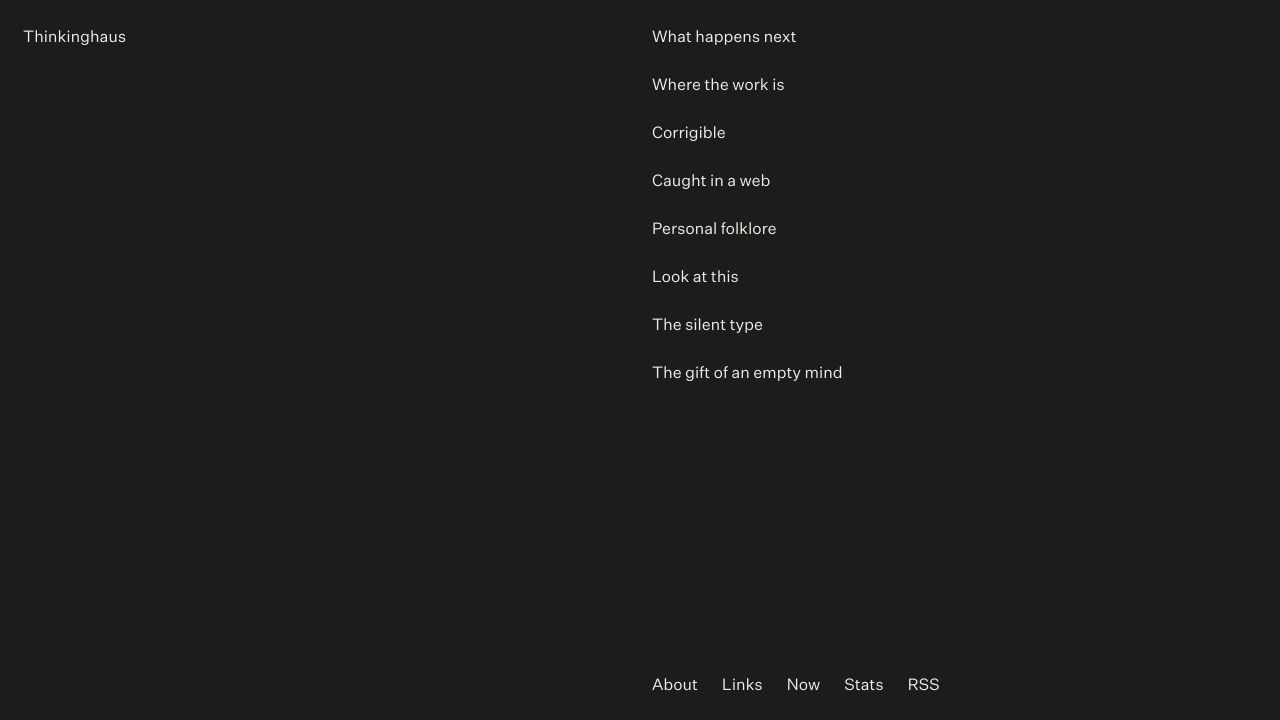
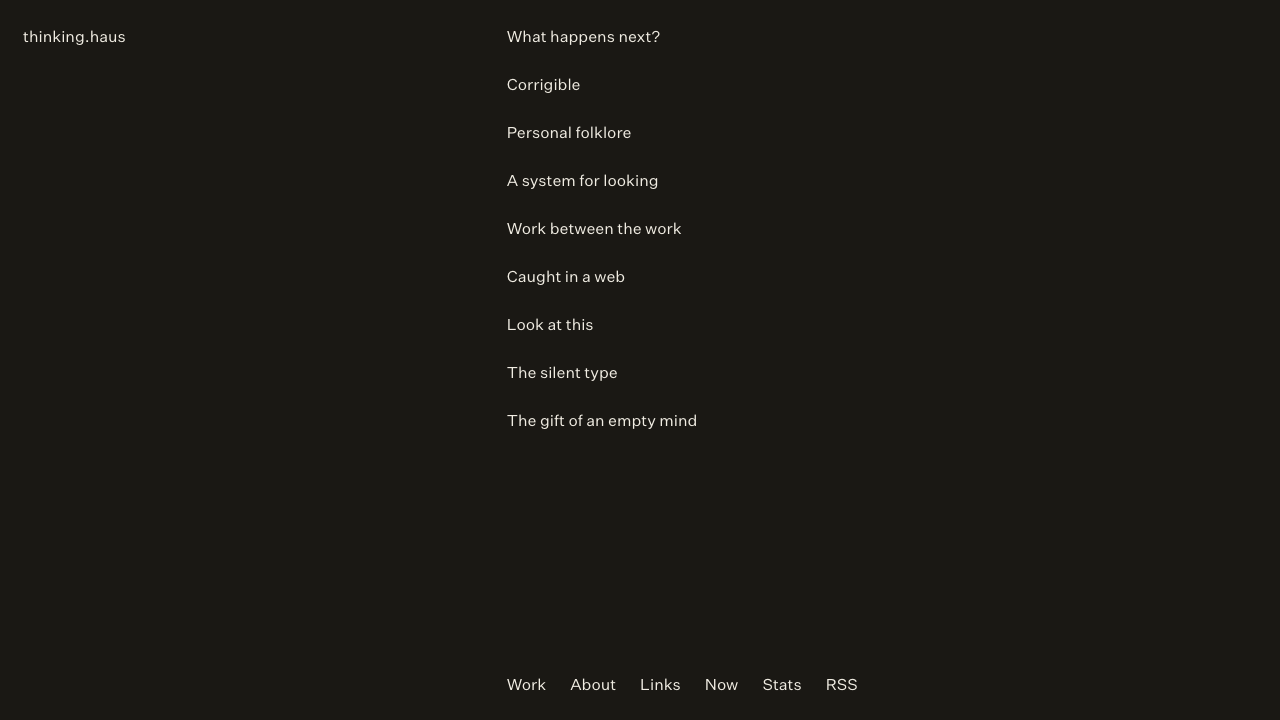
Rename site to thinking.haus

diff --git a/app/layout.tsx b/app/layout.tsx
@@ -24,7 +24,7 @@ const structuredData = {
       "@type": "WebSite",
       "@id": "https://thinking.haus/#website",
       url: "https://thinking.haus/",
-      name: "Thinkinghaus",
+      name: "thinking.haus",
       description: "Notes on attention, work, and the occasional strange thing.",
       author: { "@id": "https://thinking.haus/#author" },
     },
@@ -32,9 +32,10 @@ const structuredData = {
 };
 
 export const metadata: Metadata = {
+  applicationName: "thinking.haus",
   title: {
-    default: "Thinkinghaus",
-    template: "Thinkinghaus - %s",
+    default: "thinking.haus",
+    template: "thinking.haus - %s",
   },
   description: "Notes on attention, work, and the occasional strange thing.",
   metadataBase: new URL("https://thinking.haus"),
@@ -51,13 +52,14 @@ export const metadata: Metadata = {
     },
   },
   openGraph: {
-    title: "Thinkinghaus",
+    siteName: "thinking.haus",
+    title: "thinking.haus",
     description: "Notes on attention, work, and the occasional strange thing.",
     images: ["/og.png"],
   },
   twitter: {
     card: "summary_large_image",
-    title: "Thinkinghaus",
+    title: "thinking.haus",
     description: "Notes on attention, work, and the occasional strange thing.",
     images: ["/og.png"],
   },

diff --git a/app/[slug]/page.tsx b/app/[slug]/page.tsx
@@ -40,7 +40,7 @@ export default async function PostPage({ params }: PageProps) {
     return (
       <main className="site article-page">
         <div className="article-frame">
-          <a className="desktop-brand" href="/"><LetterCascade text="Thinkinghaus" /></a>
+          <a className="desktop-brand" href="/"><LetterCascade text="thinking.haus" /></a>
           <article className="article-column">
             <h1>Nothing here yet.</h1>
             <p><a href="/">Back to the notes.</a></p>
@@ -53,7 +53,7 @@ export default async function PostPage({ params }: PageProps) {
   return (
     <main className="site article-page">
       <div className="article-frame">
-        <a className="desktop-brand" href="/"><LetterCascade text="Thinkinghaus" /></a>
+        <a className="desktop-brand" href="/"><LetterCascade text="thinking.haus" /></a>
         <article className="article-column" data-content-slug={slug} data-content-title={content.title}>
           <header className="article-header">
             <h1>{content.title}</h1>

diff --git a/app/page.tsx b/app/page.tsx
@@ -17,9 +17,9 @@ export default function Home() {
   return (
     <main className="site index-page">
       <div className="index-frame">
-        <a className="desktop-brand" href="/"><LetterCascade text="Thinkinghaus" /></a>
+        <a className="desktop-brand" href="/"><LetterCascade text="thinking.haus" /></a>
         <div className="index-column">
-          <h1 className="sr-only">Thinkinghaus</h1>
+          <h1 className="sr-only">thinking.haus</h1>
           <ol className="post-list">
             {posts.map((post) => (
               <li key={post.slug}>

diff --git a/app/now/page.tsx b/app/now/page.tsx
@@ -21,7 +21,7 @@ export default function NowPage() {
   return (
     <main className="site article-page">
       <div className="article-frame">
-        <a className="desktop-brand" href="/"><LetterCascade text="Thinkinghaus" /></a>
+        <a className="desktop-brand" href="/"><LetterCascade text="thinking.haus" /></a>
         <article
           className="article-column"
           data-content-slug={currentNow?.slug || ""}

diff --git a/app/Footer.tsx b/app/Footer.tsx
@@ -44,7 +44,7 @@ export function Footer({
 
   return (
     <footer className={className}>
-      {showBrand ? <a className="footer-brand" href="/">Thinkinghaus</a> : null}
+      {showBrand ? <a className="footer-brand" href="/">thinking.haus</a> : null}
       <nav className="footer-links" aria-label="Site">
         <span className="footer-link-group">
           <a href="https://maxpfennig.haus/" rel="me">Work</a>

diff --git a/README.md b/README.md
@@ -1,10 +1,10 @@
-# Thinkinghaus
+# thinking.haus
 
-Thinkinghaus is where I follow ideas about attention, creative work, tools, systems, and the occasional strange thing. This repository is the machinery behind it.
+thinking.haus is where I follow ideas about attention, creative work, tools, systems, and the occasional strange thing. This repository is the machinery behind it.
 
-**[Read Thinkinghaus](https://thinking.haus)**
+**[Read thinking.haus](https://thinking.haus)**
 
-![Thinkinghaus article index](docs/preview.png)
+![thinking.haus article index](docs/preview.png)
 
 The site grew out of using AI as a writing collaborator: not simply to generate text, but to question, connect, criticize, and help me articulate ideas that were still taking shape. The publishing system grew around that practice. The public side stays spare. The private Studio holds the messier work of drafting and revision until something is ready to leave the room.
 
@@ -63,9 +63,9 @@ The custom domain depends on `public/CNAME`. The publishing workflow adds the `.
 
 ## Webmentions
 
-Thinkinghaus advertises a Webmention endpoint and checks for public mentions during publication and once each day. This happens at build time rather than in a reader’s browser. Readers never contact Webmention.io, and a temporary service failure cannot break a page or erase the last good cache.
+thinking.haus advertises a Webmention endpoint and checks for public mentions during publication and once each day. This happens at build time rather than in a reader’s browser. Readers never contact Webmention.io, and a temporary service failure cannot break a page or erase the last good cache.
 
-Only an external source link and a short label are kept. Remote content, photos, private mentions, unsafe URLs, and links back to Thinkinghaus itself are left out. A post shows “Mentioned by” only when there is something real to show.
+Only an external source link and a short label are kept. Remote content, photos, private mentions, unsafe URLs, and links back to thinking.haus itself are left out. A post shows “Mentioned by” only when there is something real to show.
 
 To refresh the local cache manually:
 

diff --git a/design-qa.md b/design-qa.md
@@ -1,4 +1,4 @@
-# Thinkinghaus editorial components design QA
+# thinking.haus editorial components design QA
 
 **Source visual truth**
 
@@ -15,9 +15,9 @@
 
 **Full-view comparison evidence**
 
-The selected quote visual and browser-rendered implementation were placed together in `/tmp/thinkinghaus-quote-comparison.png`. The source was normalized to the same displayed width and aspect ratio as the implementation. The live implementation preserves Thinkinghaus's current page shell while matching the selected component: a quiet full-height rail, unchanged body typography, and restrained separation from surrounding paragraphs.
+The selected quote visual and browser-rendered implementation were placed together in `/tmp/thinkinghaus-quote-comparison.png`. The source was normalized to the same displayed width and aspect ratio as the implementation. The live implementation preserves thinking.haus’s current page shell while matching the selected component: a quiet full-height rail, unchanged body typography, and restrained separation from surrounding paragraphs.
 
-The mock predates the live article's visible author line and full Thinkinghaus wordmark. Those page-shell differences are expected and outside the quote component; the focused region provides the fidelity comparison.
+The mock predates the live article's visible author line and full thinking.haus wordmark. Those page-shell differences are expected and outside the quote component; the focused region provides the fidelity comparison.
 
 **Focused-region comparison evidence**
 
@@ -44,7 +44,7 @@ The H2 component retains 12px type, 24px line height, 48px above, and 24px below
 
 **Comparison history**
 
-- H2: the initial 18px reference line height was changed to 24px to honor Thinkinghaus's 12px grid; post-fix desktop and mobile evidence passed.
+- H2: the initial 18px reference line height was changed to 24px to honor thinking.haus’s 12px grid; post-fix desktop and mobile evidence passed.
 - Quote: the first coded pass matched the selected Continuous Rail component with no actionable P0, P1, or P2 differences, so no visual correction loop was required.
 
 **Primary interactions tested**

diff --git a/content/posts/the-silent-type.md b/content/posts/the-silent-type.md
@@ -4,7 +4,7 @@ slug: the-silent-type
 date: 2026-07-01
 status: published
 publishedAt: 2026-08-06T15:00:00.000Z
-updatedAt: 2026-08-25T18:13:27.000Z
+updatedAt: 2026-08-29
 sourceLabel: "Read Kris Sowersby’s notes on the Untitled Collection"
 sourceHref: "https://klim.co.nz/blog/untitled-sans-serif-design-information/"
 ---
@@ -19,7 +19,7 @@ Sowersby describes deliberately [removing traces](https://klim.co.nz/blog/untitl
 
 But most of the time, when I’m reading, I don’t need the typeface to introduce itself. I need it to help me read.
 
-That’s probably why Untitled Sans feels right for both my [portfolio](https://maxpfennig.haus/) and for [Thinkinghaus](https://thinking.haus/). The work and the writing can wander around and follow unusual ideas. The letters stay put.
+That’s probably why Untitled Sans feels right for both my [portfolio](https://maxpfennig.haus/) and for [thinking.haus](https://thinking.haus/). The work and the writing can wander around and follow unusual ideas. The letters stay put.
 
 Its plainness isn’t an absence of design. It’s what happens when a mountain of small decisions are made thoughtfully enough that they can recede. The type makes room around the words instead of elbowing them for attention.
 

diff --git a/content/pages/about.md b/content/pages/about.md
@@ -3,7 +3,7 @@ title: "About"
 slug: about
 ---
 
-Thinkinghaus is where I follow ideas about attention, creative work, tools, systems, and the occasional strange thing. I’m Max Pfennighaus, a creative and design leader based in New York. [My professional work lives at maxpfennig.haus.](https://maxpfennig.haus/)
+thinking.haus is where I follow ideas about attention, creative work, tools, systems, and the occasional strange thing. I’m Max Pfennighaus, a creative and design leader based in New York. [My professional work lives at maxpfennig.haus.](https://maxpfennig.haus/)
 
 The site grew out of a habit I didn’t expect to become important. Through [collaborating with AI](/ai), I found myself putting half-formed ideas into words, arguing with them, revising them, and gradually getting closer to what I actually meant. My writing stopped feeling like something that came after thinking. It became a way of articulating myself—and of noticing what had been rattling around in my head in the first place.
 

diff --git a/SECURITY.md b/SECURITY.md
@@ -17,7 +17,7 @@ Please use GitHub’s private vulnerability reporting for this repository rather
 
 ## Trusted build inputs
 
-Thinkinghaus is a static publishing system. Its build reads source code, Markdown, fonts, and images committed to this repository. Those files are trusted and reviewed before they reach the build.
+thinking.haus is a static publishing system. Its build reads source code, Markdown, fonts, and images committed to this repository. Those files are trusted and reviewed before they reach the build.
 
 The private Studio does not pass visitor-supplied images to Vinext or `image-size`. If arbitrary image uploads are introduced later, they must be validated and processed outside this build path before the feature is enabled.
 

diff --git a/content/pages/ai.md b/content/pages/ai.md
@@ -3,7 +3,7 @@ title: "AI"
 slug: ai
 ---
 
-I use AI throughout Thinkinghaus.
+I use AI throughout thinking.haus.
 
 I use it to think out loud, interrogate half-formed ideas, research unfamiliar territory, make unlikely connections, argue with myself, edit, revise, and keep following a thought after I might otherwise have dropped it.
 
